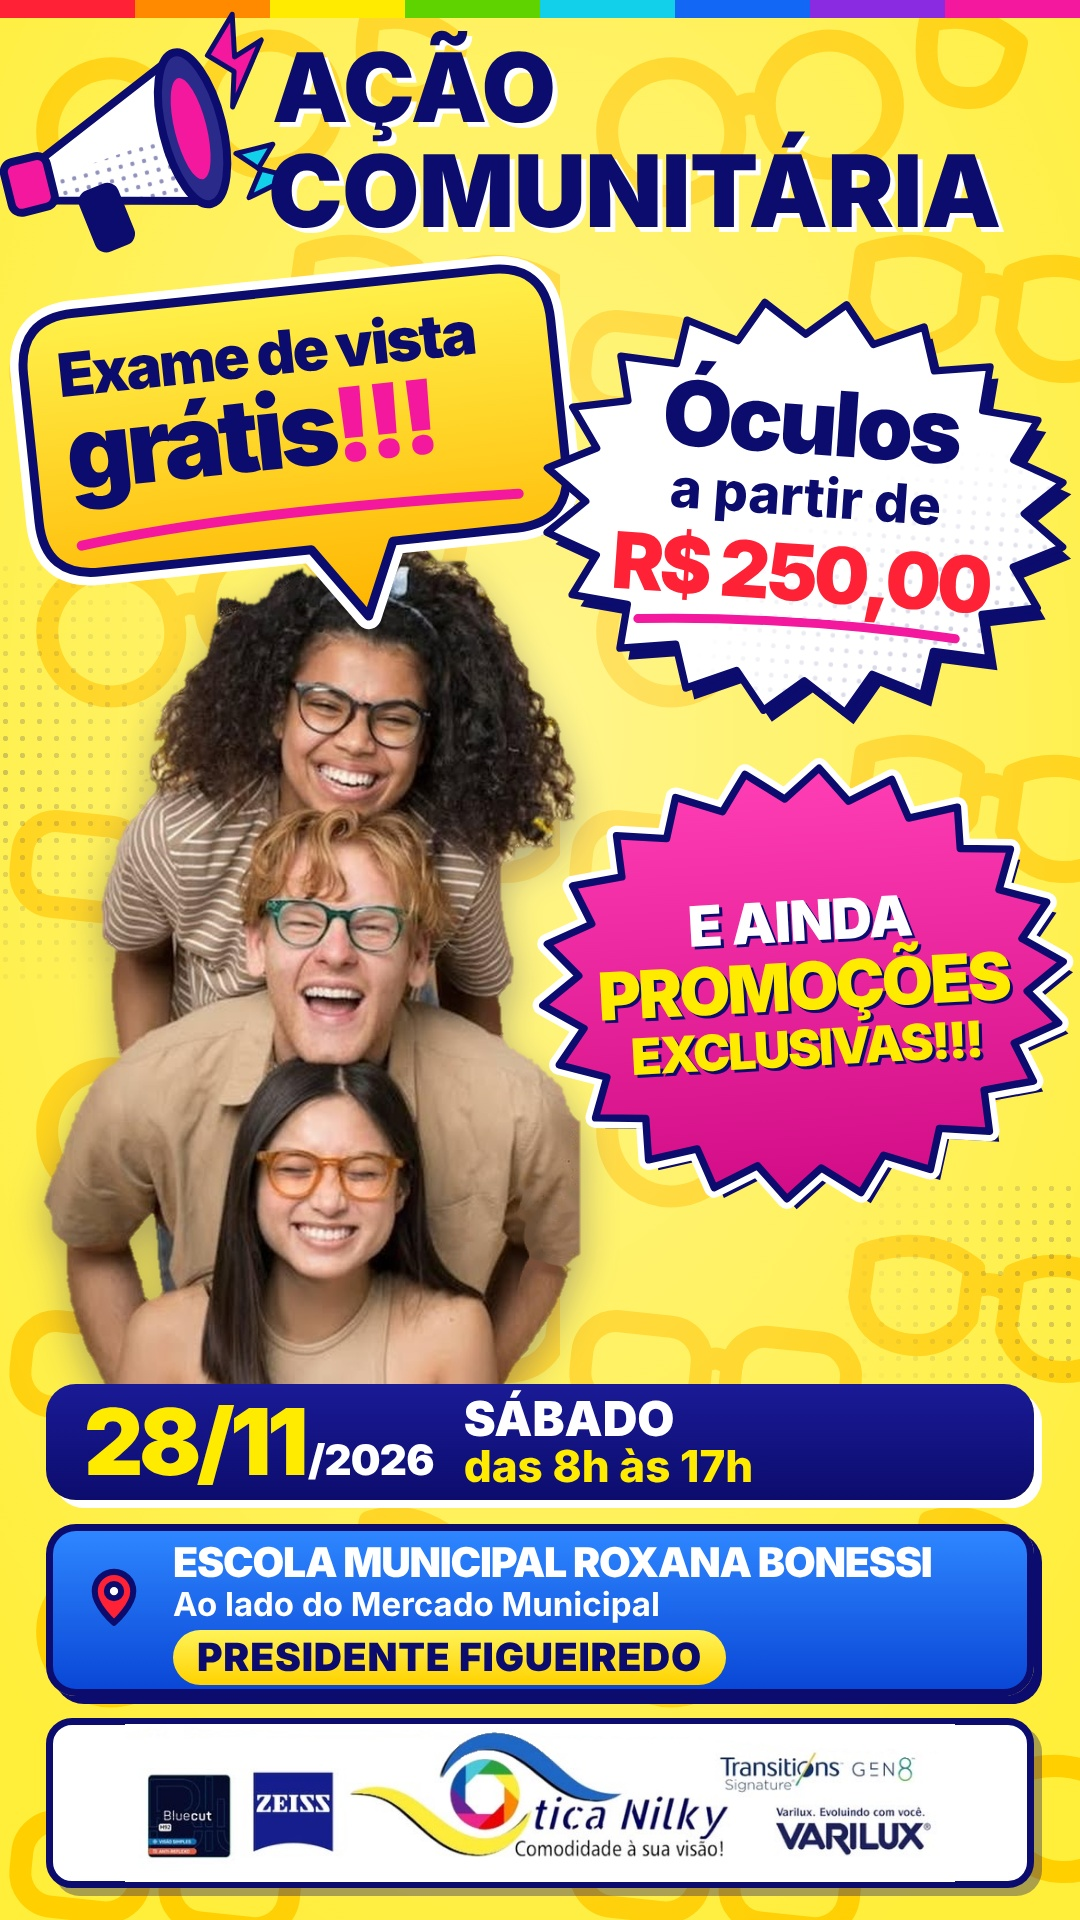
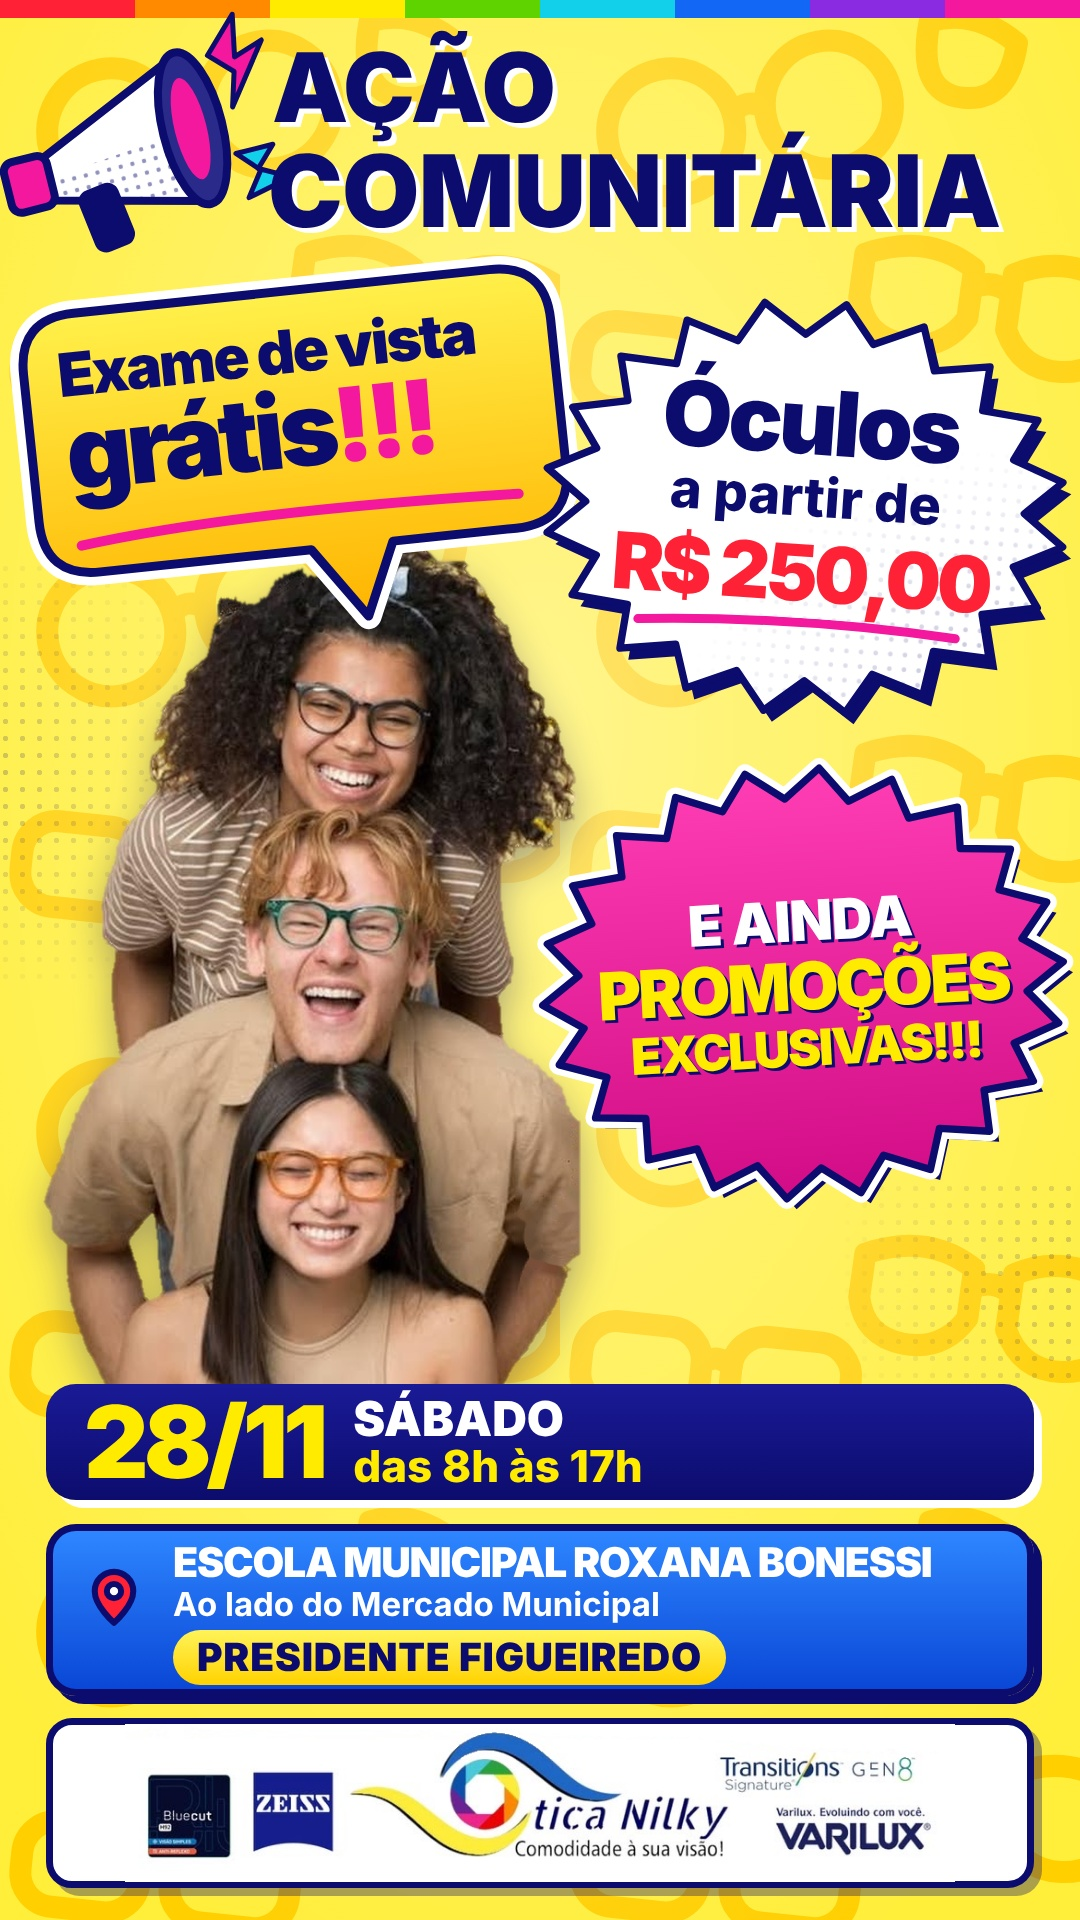
Remove o ano 2026 da data na arte da Ótica Nilky
Claude-Session: https://claude.ai/code/session_01N9ipd4AdMRoNT7eWaQQ4tb

Changed region(s): [[0.0917, 0.7188, 0.7028, 0.7812]]

diff --git a/otica-nilky/vivido-livre.html b/otica-nilky/vivido-livre.html
@@ -32,7 +32,7 @@ body{font-family:"Inter",sans-serif;color:var(--navy);background:var(--bg);posit
 .pm .b{font-weight:900;font-size:66px;line-height:1.02;letter-spacing:-.045em;text-transform:uppercase;color:var(--y);margin-top:4px}
 .pm .c{font-weight:900;font-size:50px;line-height:1.02;letter-spacing:-.045em;text-transform:uppercase;color:var(--y);margin-top:2px}
 .date{position:absolute;left:46px;top:1384px;width:988px;height:116px;background:linear-gradient(180deg,#1A1A96,#0C0C6E);border-radius:30px;display:flex;align-items:center;gap:30px;padding:0 38px;box-shadow:8px 8px 0 #fff}
-.date .d{font-weight:900;font-size:92px;letter-spacing:-.05em;color:var(--y);line-height:1}
+.date .d{font-weight:900;font-size:100px;letter-spacing:-.05em;color:var(--y);line-height:1}
 .date .d small{font-size:42px;letter-spacing:-.02em;color:var(--w);margin-left:4px}
 .date .t{display:flex;flex-direction:column}
 .date .t b{font-weight:900;font-size:48px;color:var(--w);line-height:1.04}
@@ -103,7 +103,7 @@ body{font-family:"Inter",sans-serif;color:var(--navy);background:var(--bg);posit
  <div class="t"><span class="a">E AINDA</span><span class="b">Promoções</span><span class="c">exclusivas!!!</span></div>
 </div>
 
-<div class="date"><div class="d">28/11<small>/2026</small></div><div class="t"><b>SÁBADO</b><span>das 8h às 17h</span></div></div>
+<div class="date"><div class="d">28/11</div><div class="t"><b>SÁBADO</b><span>das 8h às 17h</span></div></div>
 <div class="loc">
  <svg class="pin" viewBox="0 0 24 24" fill="none" stroke="#0C0C6E" stroke-width="2.2" stroke-linecap="round" stroke-linejoin="round"><path d="M12 21s-7-6.1-7-11.5a7 7 0 0 1 14 0C19 14.9 12 21 12 21z" fill="#FF2236"/><circle cx="12" cy="9.5" r="2.6" fill="#fff"/></svg>
  <div class="a">Escola Municipal Roxana Bonessi</div>
